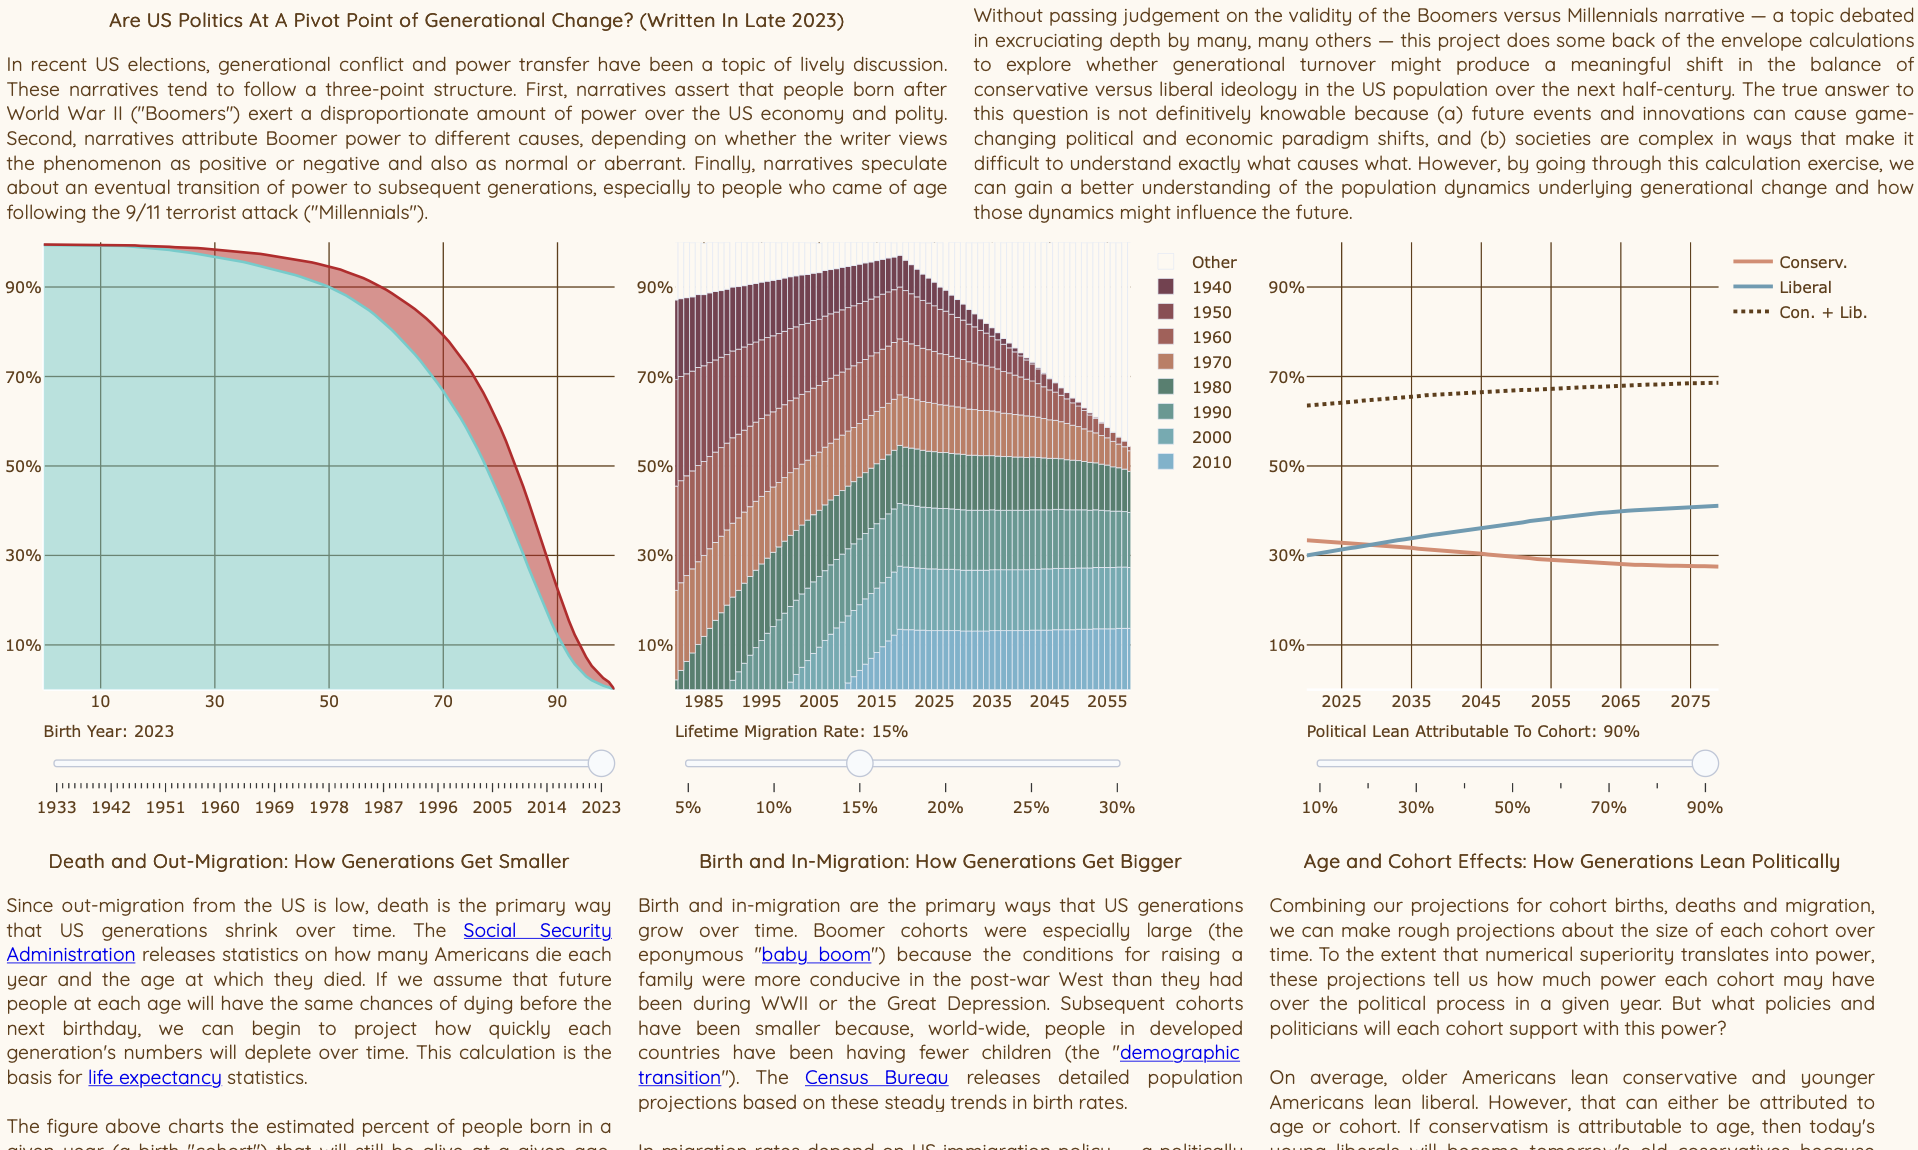
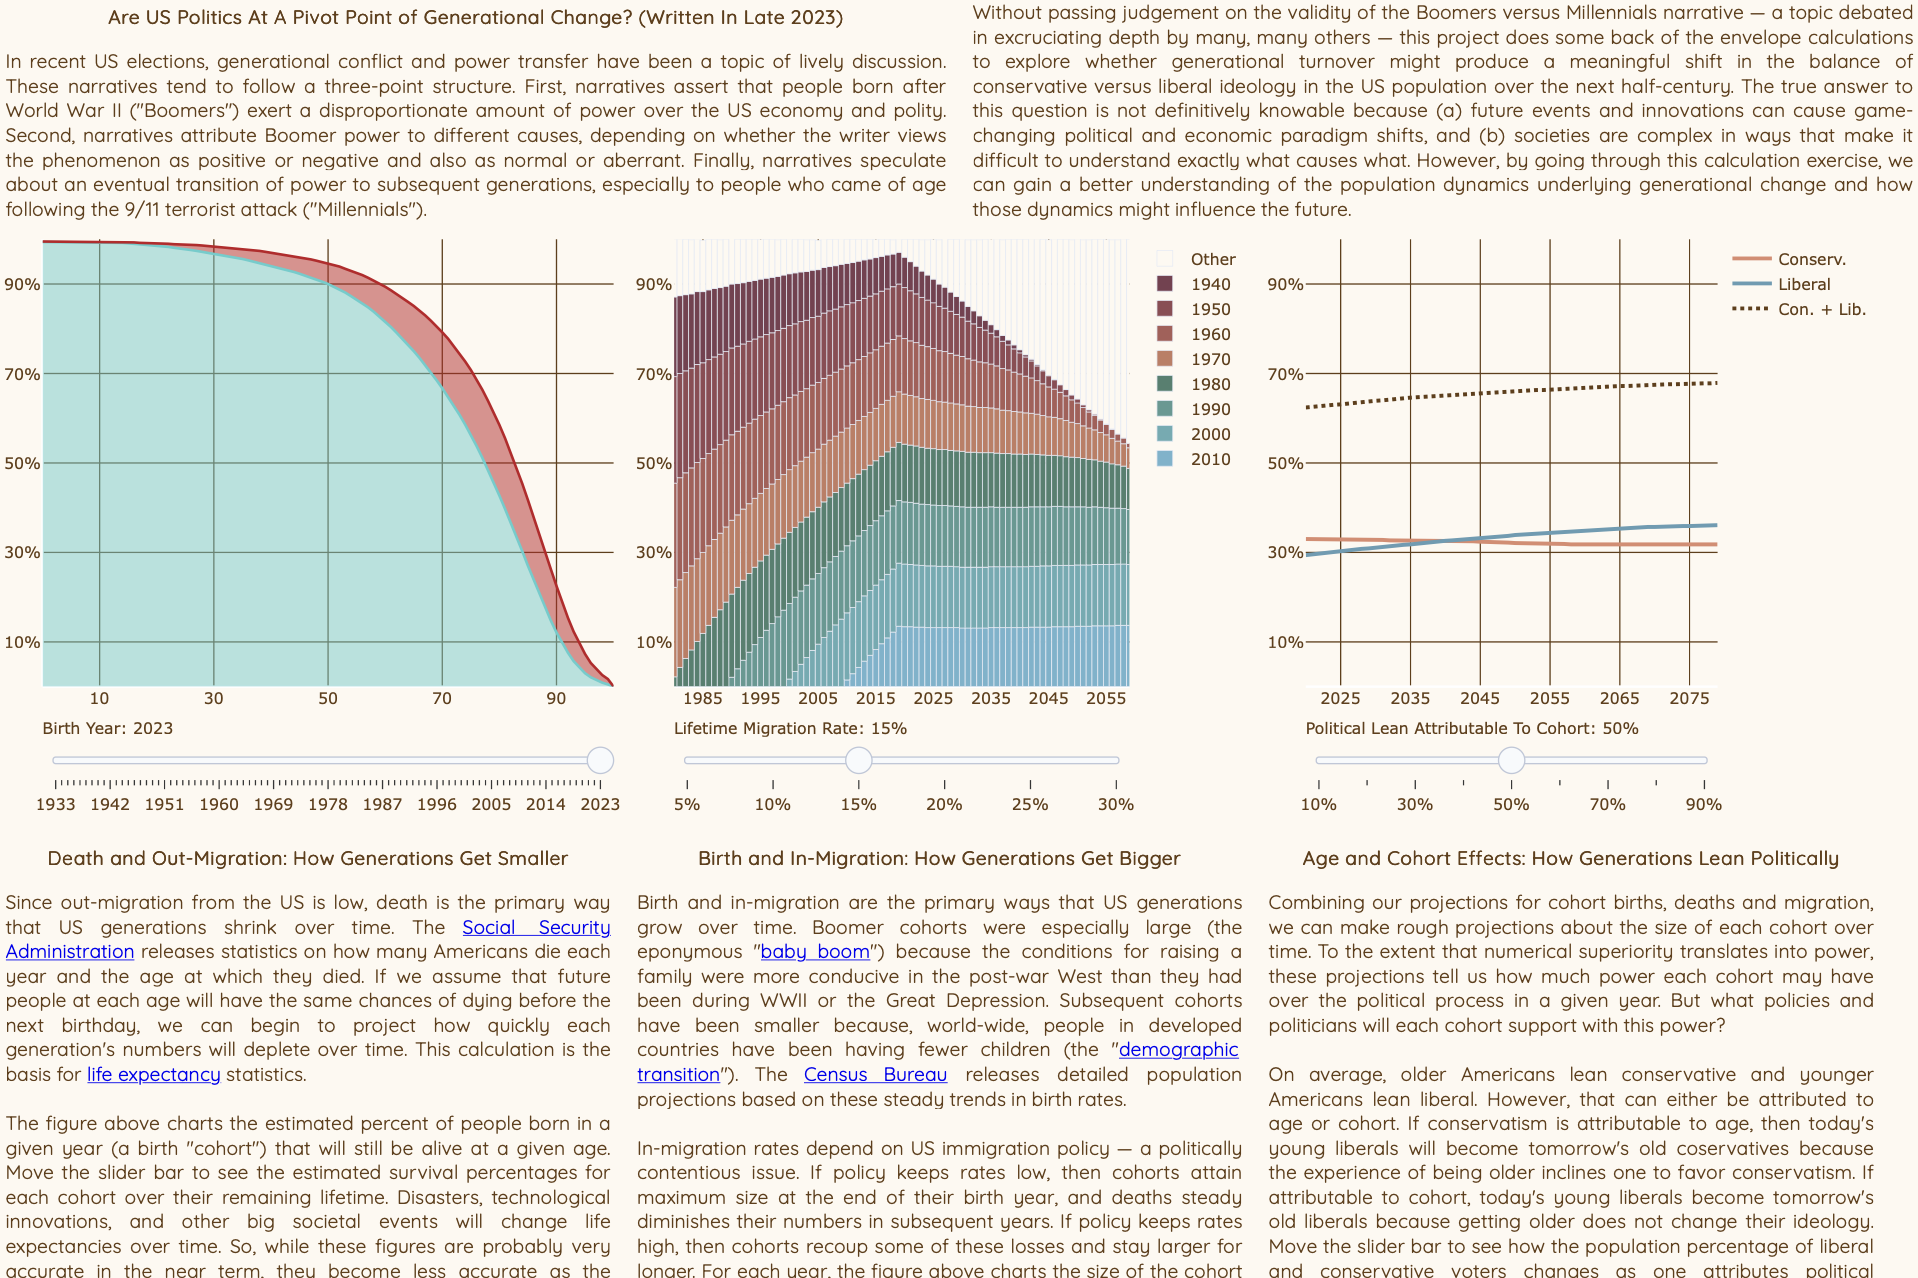
Update misc descriptions and create div for new roadtrips project

Changed region(s): [[0.0, 0.0, 1.0, 1.0], [0.0923, 0.3957, 0.123, 0.4565], [0.0923, 0.3348, 0.123, 0.3652]]

diff --git a/index.html b/index.html
@@ -59,7 +59,7 @@ workplace. </h3>
 a code portfolio that prospective business associates can view. </p>
 
 <p> Personally, I think programming is as close to magic as one can get
-in the real world – datamancy?  After writing code for so many years, it has
+in the real world &mdash; datamancy?  After writing code for so many years, it has
 become a favorite tool in my life toolkit.  I conducted some of these
 projects for the fun of solving data / algorithmic puzzles and some to support
 the various life activities that bring me happiness. <p>
@@ -77,6 +77,34 @@ work projects is not publicly available.
 
 </div>
 
+<!-- PROJECT: roadtrips -->
+
+<div class = 'black'>
+
+  <a href="p/roadtrips.html">
+    <img src="p/roadtrips.png" alt="github.com/sjoshuam/roadtrips">
+  </a>
+
+<h3>My Travels in the United States v3.0 (2023)</h3>
+
+<p>
+  Years ago, I built my first model of American population dynamics.  I resolved to see the
+  population centers I knew so well through data and began creating lists of destinations to
+  visit. This information dashboard tracks my past progress towards achieving that travel goal
+  and provides planning information for my future efforts.  This iteration is the third
+  round of refactoring from the ground-up.  It adds interactivity and UX improvements
+  based on how I trend to use the project to support travel planning.
+</p>
+
+<p>
+<b> See this project's Python code: </b>
+  <a href = "https://github.com/sjoshuam/roadtrips" target = "_blank">
+  roadtrips
+  </a>
+</p>
+
+</div>
+
 <!-- PROJECT: generational_change -->
 
 <div class = 'brown'>
@@ -88,7 +116,12 @@ work projects is not publicly available.
 <h3>Generational Change (2023)</h3>
 
 <p>
-COMING SOON
+This project does some back of the envelope calculations to explore whether generational turnover
+might produce a meaningful shift in the balance of conservative versus liberal ideology in the US
+population over the next half-century. The true answer to this question is not definitively
+knowable because societies are complex and the future is uncertain. However, by going through this
+calculation exercise, we can gain a better understanding of the population dynamics underlying
+generational change and how those dynamics might influence the future. 
 </p>
 
 <p>
@@ -108,12 +141,12 @@ COMING SOON
     <img src="p/us_travels.png" alt="github.com/sjoshuam/us_travels">
   </a>
 
-<h3>My Travels in the United States v1.0 (2022)</h3>
+<h3>My Travels in the United States v2.0 (2022)</h3>
 
 <p>
 Years ago, I built my first model of American population dynamics.  I
-resolved to see the population centers I knew so well through data and created a
-list of 110 metro areas to visit. This information dashboard tracks my past
+resolved to see the population centers I knew so well through data and began creating
+lists of destinations to visit. This information dashboard tracks my past
 progress towards achieving that travel goal and provides planning information
 for my future efforts.
 </p>
@@ -199,7 +232,8 @@ Wyoming's population and 253 times Rhode Island's land area. This project
 creates an interactive tool for exploring how targeted changes to state borders
 could produce better state borders.  As you change the boundaries, the tool will
 automatically score how your changes affect inequality among states. Note: Tool
-loads slowly right now. Eventually, I will overhaul this project...
+loads quickly slowly at this point, as it is based on obsolete code and interactivity
+solutions.
 </p>
 
 <p>

diff --git a/p/roadtrips.html b/p/roadtrips.html
@@ -1,0 +1,73 @@
+<!DOCTYPE html>
+<html>
+
+<head>
+    <link href="https://fonts.googleapis.com/css2?family=Quicksand" rel="stylesheet">
+    <link rel="stylesheet" href="roadtrips.css">
+</head>
+
+<body>
+
+<!-- Facet Titles-->
+<div class="facet_inset"><h1>My Travels Across the United States of America</h1></div>
+<div class="facet_inset"><b>Facet #2:</b> Proximity dendrogram</div>
+<div class="facet_inset"><b>Facet #3:</b> Proximity voronoi decomposition (distance cuts)</div>
+
+<!-- Project Introduction -->
+<div class="facet_panel">
+    <p>
+        Years ago, I built my first simulation model of population dynamics in the United States.
+        I got to know US places and population centers very well, realizing how few I
+        had experienced in person. I set out on my first roadtrip with little more than a rough
+        list of a few places and boundless curiosity. Since then, I have traveled thousands of
+        miles, and evolved my ambitions. These days, my domestic travel goals include visiting:
+    </p>
+    <ul>
+        <li> The nation's most populous cities
+        <li> Every state's capital city
+        <li> Every state's most populous city
+        <li> Select UNESCO World Heritage Sites
+    </ul>
+    <p>
+        This information dashboard tracks my past progress towards achieving my goals and provides 
+        planning information for my future trips.
+    </p>
+</div>
+
+
+
+<!-- Progress polar bar chart -->
+<div class="facet_panel">
+    <p>Facet #2: UNDER CONSTRUCTION</p>
+</div>
+
+<!-- Similarity dendrogram -->
+<div class="facet_panel">
+    <p>Facet #3: UNDER CONSTRUCTION</p>
+</div>
+
+<!-- Next titles-->
+<div class="main_inset"><b>Main Panel</b> Maps (weather in each month)</div>
+<div class="side_inset"><b>Side #1:</b> Progress polar bars (city, state, distance)</div>
+
+<!-- Maps -->
+<div class="main_panel">
+    <p>Main: UNDER CONSTRUCTION</p>
+</div>
+
+<!-- Progress (mid-right 100 x 350; state v city slider) -->
+<div class="side_panel">
+    <p>Side #1: UNDER CONSTRUCTION</p>
+</div>
+
+<!-- Description (top-right 100 x 350) -->
+<div class="side_inset"><b>Side #2:</b> OCONUS labeled scatter checklist</div>
+<div class="side_panel">
+    <p>Side #2: UNDER CONSTRUCTION</p>
+</div>
+
+
+
+
+</body>
+<html>

diff --git a/p/roadtrips.css b/p/roadtrips.css
@@ -1,0 +1,63 @@
+/* ==== VARIABLES ================ */
+
+:root{
+    /*--light: #F2F9FF;
+    --dark: #143D66;
+    --page_bg: #FFFFFF;*/
+    --page_bg: #000000;
+    --light: #000000;
+    --dark: #FFFFFF;
+}
+
+/* ==== BASIC ELEMENTS ================ */
+  
+body{
+    font-family: Quicksand, Ariel;
+    background-color: var(--page_bg);
+    color: var(--dark);
+    width: 1506px;
+    min-height: 1000px;
+}
+
+h1{
+    font-size: 14pt;
+    font-weight: bold;
+    margin: 4px;
+}
+
+h2{
+    font-size: 12pt;
+    font-weight: bold;
+    margin: 4px;
+}
+
+p{
+    font-size: 11pt;
+    margin: 4px;
+    text-align: justify;
+}
+
+ul{
+    margin-top: 2px;
+    margin-bottom: 2px;
+    font-size: 14px;
+}
+
+
+/* ==== DIVs ================ */
+
+div{
+    border: 1px solid var(--dark);
+    float: left;
+    background-color: var(--light);
+    margin: 0px;
+}
+
+div.facet_inset{width: 500px; height: 040px;}
+div.facet_panel{width: 500px; height: 240px;}
+
+div.side_inset{width:  302px; height: 040px;}
+div.side_panel{width:  302px; height: 318px;}
+
+div.main_inset{width: 1200px; height: 040px;}
+div.main_panel{width: 1200px; height: 680px;}
